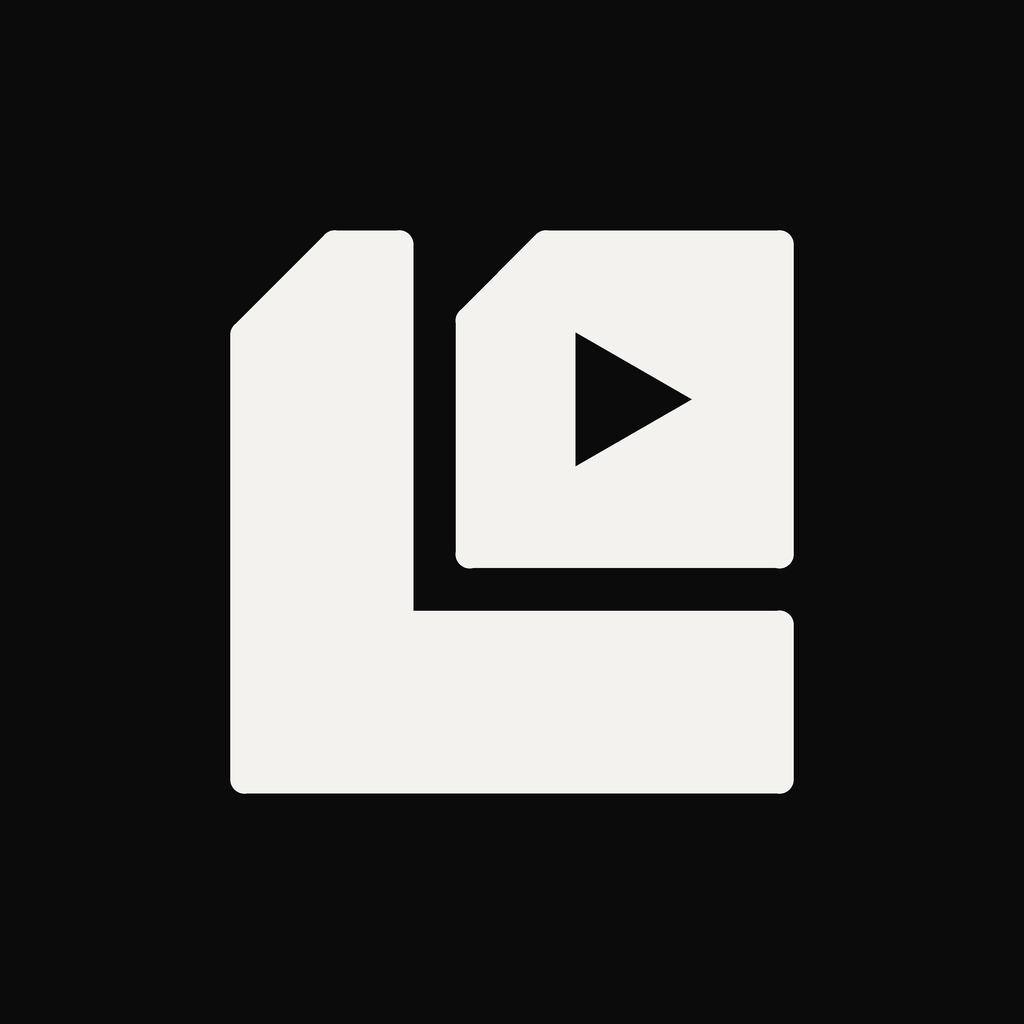
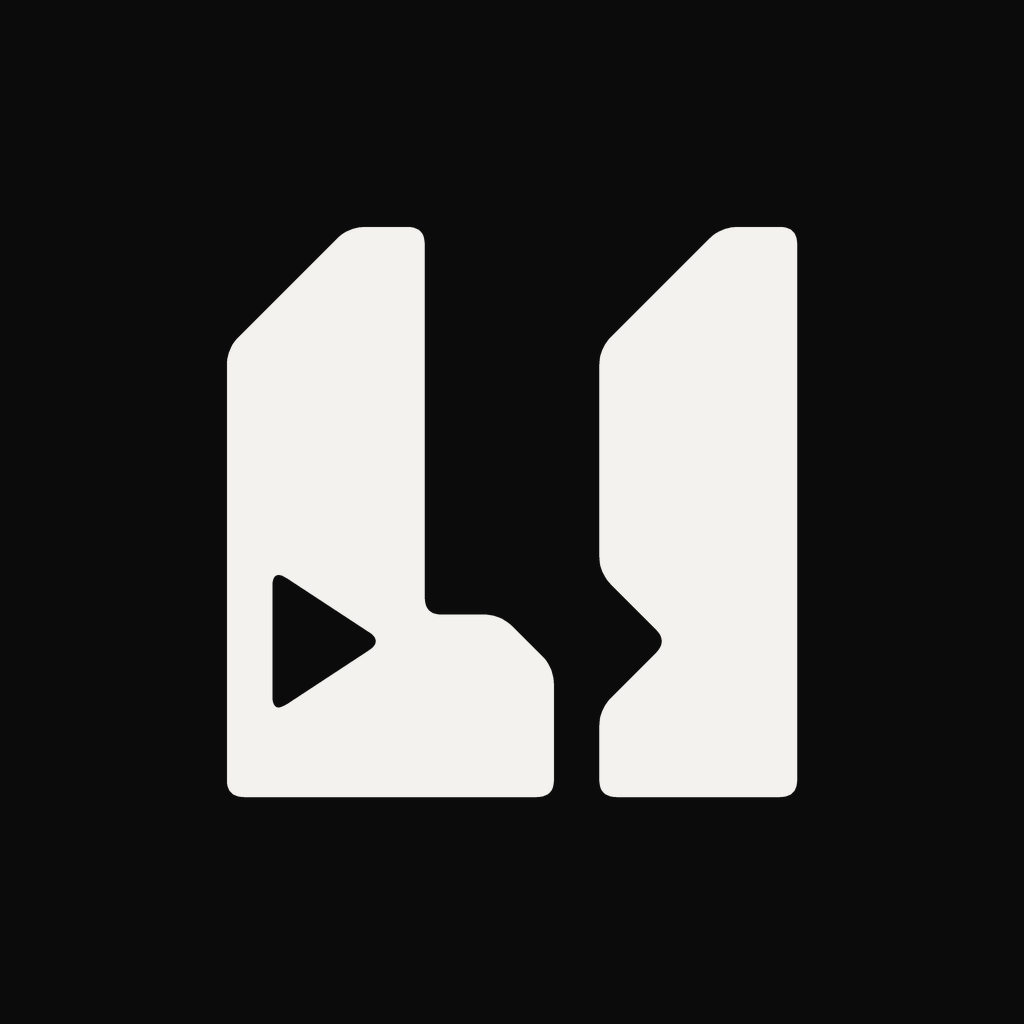
New logoless mark: two bold letters filling a square, with a play-button hole in the L and a matching notch in the second letter (earlier versions kept in public/brand)

Changed region(s): [[0.2188, 0.2188, 0.7812, 0.7812]]

diff --git a/BRAND.md b/BRAND.md
@@ -1,28 +1,28 @@
 # The logoless mark
 
-Files are in `public/brand/`. Earlier versions are kept in `v1`, `v2` and `v3`.
+Files are in `public/brand/`. Earlier versions are kept in `v1` to `v4`.
 
 ## What it is
 
-A perfect square, made of two pieces that fit together: a solid **L**, and a **square clip card** with a play button cut clean through it. Nothing is added to the square. Nothing sticks out of it.
+Two bold letters, **L** and **l**, built to fill one perfect square. The silhouette is exactly 1:1, so the mark is its own app icon: it needs no box around it.
 
 ## What it means
 
-1. **The square is the frame.** Every clip lives in a frame: a screen, a post, a thumbnail. It is also the shape of every app icon, so the mark is its own container. One shape, one idea, at every size.
-2. **The solid L is the platform, and the "L" in logoless.** It runs the full height of the square and the full width, and the clip rests inside its reach. It holds the work up and keeps it from falling out of the frame. It does not cover it.
-3. **The gap is a second, empty L.** The channel between the pieces is the same width all the way round, and it bends the same way the solid L does. So the mark spells "ll" twice: one L you can see, one you can't. **Logo** and **less**. The empty one is the point of the name.
-4. **The card is a perfect square, and the hero.** It is the only piece with a window in it, and it gets the middle of the frame. In logoless the clip is what gets the room.
-5. **The play button is punched all the way through.** Where a logo would normally sit there is only a way to look through. The window is never filled in, so it always shows what is behind the mark. Its point faces right: forward, onward, the way views and earnings travel.
-6. **Both top-left corners are clipped at exactly 45 degrees**, like a trimmed clip or a turned corner. The two cuts run parallel, as if one diagonal line sliced through both pieces.
-7. **Everything lines up.** The tops of the L and the card are flush. The right edge of the foot and the right edge of the card are flush. The stem, the gap and the card are all multiples of the same small unit (104 : 24 : 192), so the mark can be drawn on any grid.
+1. **"ll", twice.** The name is logo-less, and the mark is two l's: a big L that holds the play button, and a second l that has been cut into. One letter carries the clip. The other carries the space the clip left behind. Logo, less.
+2. **The play button is a hole in the L.** The first letter is the "logo", and its middle has been removed. What shows through the gap is a play button. A logo normally takes that spot. Here it is empty, and the empty spot is the clip. It is cut clean through, so it always shows what is behind it.
+3. **One line runs through the mark.** The hole in the L and the notch in the second letter sit on the same horizontal line, and both point the same way. Read left to right, it is a clip travelling: from the person who made it, past the foot of the L, into the second letter, and out to the views it earns.
+4. **The second letter is cut where the clip passes.** The notch on its left edge has the same angle as the play button. The clip leaves a mark on what it moves through, the way a good clip leaves a mark on a campaign.
+5. **Clipped corners.** Both letters have their top-left corner cut at exactly 45 degrees, like a trimmed clip. The foot of the L is trimmed at the same angle. One angle, used everywhere.
+6. **Same height, same baseline.** Clippers, brands and viewers are equals. Neither letter is taller or louder than the other.
+7. **A square, filled completely.** Nothing is left over and nothing sticks out. The mark fills its frame the way a clip fills a screen.
 
 ## Rules
 
 - Colours: `#f3f2ee` (paper) on `#0b0b0c` (ink). The light version swaps them. A single red `#ff2a2a` may replace paper for promotions.
-- Never stretch, rotate, outline, shadow or glow the mark. Never fill the play window.
-- Keep clear space around the mark of at least the width of the L's stem (one third of the mark).
-- For tiny sizes (favicons) use `favicon-*.png`, which are scaled up inside the square.
-- In app icons the mark covers 55% of the square, which keeps it fully visible inside round and rounded Android and iOS masks.
+- Never stretch, rotate, outline, shadow or glow the mark. Never fill the play hole.
+- Keep clear space around the mark of at least the width of the L's stem (about one third of the mark).
+- For tiny sizes (favicons) use `favicon-*.png`, which scale the mark up inside the square.
+- In app icons the mark covers 57% of the square, which keeps it fully visible inside round and rounded Android and iOS masks.
 
 ## Files
 
